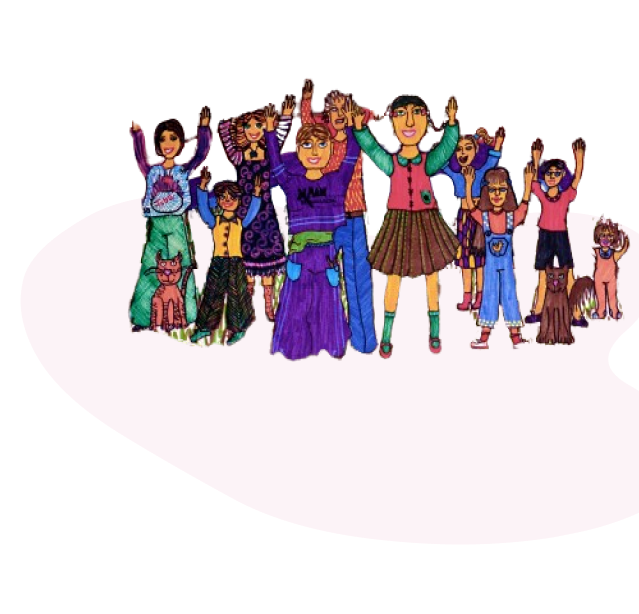
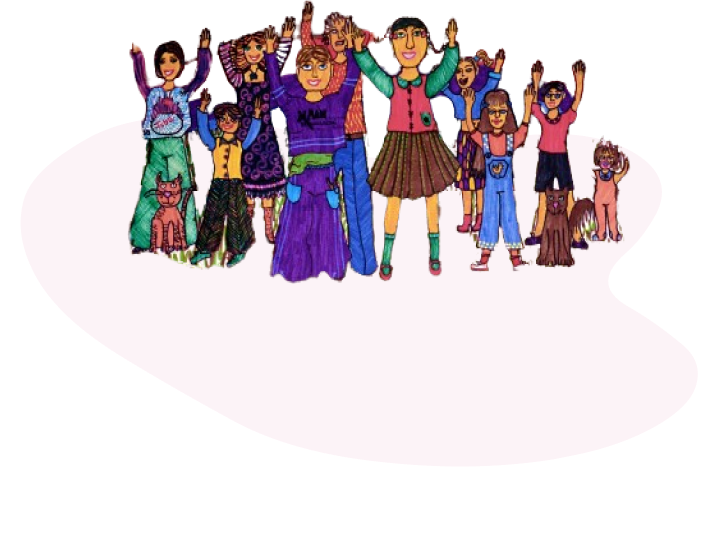
feat: sponsor redesign branch

diff --git a/components/sponsor/Benefits.tsx b/components/sponsor/Benefits.tsx
@@ -3,41 +3,40 @@ import BenefitsMobile from "../../public/sponsor/BenefitsMobile.png";
 import BenefitsIpadMini from "../../public/sponsor/BenefitsIpadMini.png";
 import BenefitsTablet from "../../public/sponsor/BenefitsTablet.png";
 import BenefitsLaptop from "../../public/sponsor/BenefitsLaptop.png";
-import BenefitsXL from "../../public/sponsor/BenefitsXL.png";
-import { H3m } from "../common/texts/H3m";
+import yellowBlob from "../../public/sponsor/yellowBlob.svg";
 import vector from "../../public/svgs/Vector.svg";
 import BenefitsRight from "../../public/sponsor/BenefitsRight.png";
 
 export const Benefits = () => {
-    return (
-        <>
-        <div className="relative mt-20">
-          <Image src={BenefitsMobile} alt="" width={767} height={446} className="absolute z-10 sm:hidden -top-50 w-full " />
-          <Image src={BenefitsIpadMini} alt="" width={1023} height={333} className="absolute -z-10 hidden sm:block lg:hidden w-full h-[400px] pb-10" />
-          <Image src={BenefitsTablet} alt="" width={1279} height={377} className="absolute z-10 hidden lg:block xl:hidden left-0 w-2/3 h-[400px]" />
-          <Image src={BenefitsLaptop} alt="" width={1536} height={432} className="absolute z-10 hidden xl:block 2xl:hidden left-0 w-2/3 h-[500px]" />
-          <Image src={BenefitsXL} alt="" width={1536} height={432} className="absolute z-10 hidden 2xl:block -top-50 left-0 w-2/3" />
+  return (
+    <>
+      <div className="relative mt-20">
+        <Image src={BenefitsMobile} alt="" width={767} height={446} className="absolute z-10 sm:hidden -top-50 w-full " />
+        <Image src={BenefitsIpadMini} alt="" width={1023} height={333} className="absolute -z-10 hidden sm:block lg:hidden w-full h-[400px] pb-10 -top-12" />
+        <Image src={BenefitsTablet} alt="" width={1279} height={377} className="absolute z-10 hidden lg:block xl:hidden left-0 w-2/3 h-[400px]" />
+        <Image src={BenefitsLaptop} alt="" width={1536} height={432} className="absolute z-10 hidden xl:block 2xl:hidden left-0 w-2/3 h-[500px]" />
 
+        <section className=" relative grid grid-cols-2 z-20 m-auto max-w-screen-2xl px-8 md:px-12 lg:px-16 xl:px-20">
+          <div className="col-span-2 xsm:col-span-2 lg:col-span-1 xsm:mt-8 md:mt-8 2xl:mt-20">
+            <Image src={yellowBlob} alt="" width={1536} height={432} className="absolute hidden 2xl:block -top-4 -left-20 -z-10 w-2/3 max-w-[1061px]" />
 
-          <section className=" relative grid grid-cols-2 z-20 m-auto max-w-screen-2xl px-8 md:px-12 lg:px-16 xl:px-20">
-            <div className="col-span-2 xsm:col-span-2 lg:col-span-1 xsm:mt-8 md:mt-8 2xl:mt-20">
-              <h3 className="relative flex-col z-20 font-semibold mb-4 text-2xl xsm:text-2xl lg:text-3xl xl:text-4xl">
-                Sponsorship benefits
-              </h3>
-              <div className="relative w-auto mb-8 z-20">
-                <h2 className="z-20 font-light text-lg lg:w-4/5 mxl:w-4/5">
-                Employees and stakeholders participate while the company makes it mark on The National Mall across the U.S. Capitol. Please browse this 10-page pdf (2-minutes) 
-                </h2>
-              </div>
-              <a href="#" className="text-blue-600 hover:text-blue-700 font-bold underline hover:underline hover:bg-gray-300 p-2 rounded inline-block">Download PDF</a>
-              <Image src={vector} alt="" width={10} height={10} className=" z-20  inline-block" />
+            <h3 className="relative flex-col z-20 font-semibold mb-4 text-2xl xsm:text-2xl lg:text-3xl xl:text-4xl">
+              Sponsorship benefits
+            </h3>
+            <div className="relative w-auto mb-8 z-20">
+              <h2 className="z-20 font-light text-lg lg:w-4/5 mxl:w-4/5">
+              Employees and stakeholders participate while the company makes it mark on The National Mall across the U.S. Capitol. Please browse this 10-page pdf (2-minutes) 
+              </h2>
             </div>
-            <Image src={BenefitsRight} className="xsm:col-span-2 lg:col-span-1 z-20 w-full xl:w-full mt-10" alt=""></Image>
-          </section>
-        </div>
-       
+            <a href="#" className="text-blue-600 hover:text-blue-700 font-bold underline hover:underline hover:bg-gray-300 p-2 rounded inline-block z-10">Download PDF</a>
+            <Image src={vector} alt="" width={10} height={10} className=" z-20  inline-block" />
+          </div>
+          <Image src={BenefitsRight} className="xsm:col-span-2 lg:col-span-1 z-20 w-full xl:w-full mt-10" alt=""></Image>
+        </section>
+      </div>
       
-      
-      </>
-    );
+    
+    
+    </>
+  );
 };

diff --git a/components/sponsor/PastSponsor.tsx b/components/sponsor/PastSponsor.tsx
@@ -1,30 +1,29 @@
 import Image from "next/image";
-import PastMobile from "../../public/sponsor/PastMobile.png"
-import PastXL from "../../public/sponsor/PastXL.png"
-import PastLeft from "../../public/sponsor/PastLeft.png"
+import PastXL from "../../public/sponsor/PastXL.png";
+import PastLeft from "../../public/sponsor/PastLeft.png";
 import vector from "../../public/svgs/Vector.svg";
 
 export const PastSponsor = () => {
   return (
     <>
-        <div className="relative mt-40 grid grid-cols-2 z-20 m-auto  " >
-            <div className="xsm:col-span-2 lg:col-span-1 xsm:px-8 md:px-12 lg:px-16 xl:px-20 max-w-screen-2xl">
-                <Image src={PastLeft} alt="" width={767} height={446} className="relative z-20 " />
-            </div>
-            <div className="relative xsm:col-span-2 lg:col-span-1 xsm:px-8 mt-20 md:px-12 lg:px-16 mt-0 xl:px-20 max-w-screen-2xl">
-                <div className="relative z-20 m-auto">
-                    <h2 className="font-medium text-3xl ">Past Sponsors and supporters</h2>
-                    <h3 className="font-light text-lg leading-loose mt-5">Some of the world’s leading companies have worked with ICAF. 
-Please browse this 16-page pdf (3-minutes). </h3> 
-                    <a href="#" className="text-blue-600 hover:text-blue-700 font-bold underline hover:underline hover:bg-gray-300 p-2 rounded inline-block">Download PDF</a>
-                    <Image src={vector} alt="" width={10} height={10} className=" z-20  inline-block" />   
-                </div>
-                <div>
-                    <Image src={PastMobile} alt="" width={767} height={446} className="absolute z-0 hidden xsm:block w-full right-0 lg:hidden" />
-                    <Image src={PastXL} alt="" width={1536} height={432} className="absolute z-0 hidden 2xl:block top-20 right-0 w-full " />
-                </div>
-            </div> 
+      <div className="relative mt-20 lg:mt-40 mb-36 grid grid-cols-2 z-20 m-auto  xsm:px-8 md:px-12 lg:px-16 xl:px-20 max-w-screen-2xl " >
+        <div className="relative xsm:col-span-2 lg:col-span-1 order-2 lg:order-1 rounded-lg overflow-hidden lg:h-[500px] flex justify-center items-center mt-20 lg:mt-0">
+          <Image src={PastLeft} alt="" className="h-full w-auto min-w-full object-cover rounded-lg" />
         </div>
+        <div className="relative xsm:col-span-2 lg:col-span-1 xsm:px-8 lg:mt-20 md:px-12 lg:px-16 mt-0 xl:px-20 max-w-screen-2xl order-1 lg:order-2">
+          <div className="relative z-20 m-auto ">
+            <h2 className="font-medium text-3xl ">Past Sponsors and supporters</h2>
+            <h3 className="font-light text-lg leading-loose mt-5">Some of the world’s leading companies have worked with ICAF. 
+Please browse this 16-page pdf (3-minutes). </h3> 
+            <a href="#" className="text-blue-600 hover:text-blue-700 font-bold underline hover:underline hover:bg-gray-300 p-2 rounded inline-block">Download PDF</a>
+            <Image src={vector} alt="" width={10} height={10} className=" z-20  inline-block" />   
+          </div>
+          <div>
+            {/* <Image src={PastMobile} alt="" width={767} height={446} className="absolute z-0 hidden xsm:block w-full right-0 lg:hidden" /> */}
+            <Image src={PastXL} alt="" width={718} height={535} className="absolute z-0 hidden lg:block top-20 md:top-20 lg:top-52 xl:bottom-12 xl:top-56 right-0 w-4/6 lg:w-full lg:-right-28 max-w-[718px]" />
+          </div>
+        </div> 
+      </div>
     </>
 
   );

diff --git a/components/sponsor/SponsorBegin.tsx b/components/sponsor/SponsorBegin.tsx
@@ -1,17 +1,11 @@
 import Image from "next/image";
-import hashtag from "../../public/home/hashtag.svg";
-import yellowBGmobile from "../../public/svgs/sponsor-svg/yellowBG-mobile.svg";
-import yellowBGipad from "../../public/svgs/sponsor-svg/yellowBG-ipad.svg";
-import yellowBGtablet from "../../public/svgs/sponsor-svg/yellowBG-tablet.svg";
-import yellowBGsmall from "../../public/svgs/sponsor-svg/yellowBG-small.svg";
-import yellowBGlarge from "../../public/svgs/sponsor-svg/yellowBG-large.svg";
 
 export const SponsorBegin = () => {
   return (
     <>
       <section className="relative grid grid-cols-2 z-20 mt-10 m-auto max-w-screen-2xl px-8 md:px-12 lg:px-16 xl:px-20">
-        <div className="col-span-2 lg:col-span-1 md:mt-8">
-          <h1 className="flex-col z-20 font-semibold mb-4 text-3xl xsm:text-4xl lg:text-5xl xl:text-6xl">
+        <div className="col-span-2 lg:col-span-1 md:mt-8 max-w-[500px] lg:max-w-[unset] col-span-2 m-auto">
+          <h1 className="flex-col z-20 font-semibold mb-4 text-3xl xsm:text-4xl lg:text-5xl xl:text-6xl text-center lg:text-left ">
             Sponsor
           </h1>
           <div className="w-auto mb-8 z-20">
@@ -20,8 +14,8 @@ export const SponsorBegin = () => {
             </h2>
           </div>
         </div>
-        <div className="col-span-2 z-20 sm:col-span-1 flex justify-center item-center">            
-          <Image src="/sponsor/heart_earth_combination.svg" width = {380} height = {323} className="sm:ml-10 lg:ml-0 w-2/3" alt=""/>
+        <div className="col-span-2 z-20 lg:col-span-1 flex justify-center item-center">            
+          <Image src="/sponsor/heart_earth_combination.svg" width = {380} height = {323} className="lg:ml-0 w-2/3" alt=""/>
         </div>
       </section>
     </>

diff --git a/components/sponsor/ContactUs.tsx b/components/sponsor/ContactUs.tsx
@@ -1,16 +1,12 @@
-import Image from "next/image";
 // import icafLogo from "../../public/svgs/Icaf-logo.svg";
 // import orangeBlob from "../../public/svgs/sponsor-svg/orangeblob.svg";
 // import greenBlob from "../../public/svgs/sponsor-svg/greenblob.svg";
-import blueBlob from "../../public/sponsor/blue_blob.png";
-import blueBlobMobile from "../../public/sponsor/blueBlobMobile.png";
 
 export const ContactUs = () => {
   return (
     <>
-      <div className="relative mb-[500px] z-30 bg-light-blue" >
-        <Image src={blueBlobMobile} alt="" width={767} height={446} className="absolute z-0 xsm:block w-full h-[1000px]" />
-        <div className="absolute left-1/2 transform -translate-x-1/2 translate-y-1/2 grid grid-cols-1 gap-y-6 md:mt-10 lg:mt-20 m-auto max-w-screen-2xl sm:px-8 md:px-12 lg:px-16 xl:px-20">
+      <div className="relative py-12 z-20 bg-light-blue px-8 md:px-12 lg:px-16 xl:px-20" >
+        <div className="grid grid-cols-1 gap-y-6 m-auto max-w-screen-2xl sm:px-8 md:px-12 lg:px-16 xl:px-20">
           <h2 className="text-center font-medium text-3xl">Contact Us</h2>
           <h3 className="text-center font-light text-lg leading-loose">We will gladly answer any questions you have.</h3>    
           <a href="https://icaf.org/about/contact-us" className="mx-auto inline-flex w-fit h-fit bg-new-blue rounded text-center py-4 px-6 text-sm cursor-pointer tracking-wide text-neutral-white">Contact us here</a>

diff --git a/src/app/sponsor/page.tsx b/src/app/sponsor/page.tsx
@@ -1,15 +1,8 @@
 import { Metadata } from "next";
 import { sharedOpenGraph } from "../shared-metadata";
 import { SponsorBegin } from "../../../components/sponsor/SponsorBegin";
-import { Advantage } from "../../../components/sponsor/Advantage";
-import { Carousel } from "../../../components/sponsor/Carousel";
-import { Banner } from "../../../components/Banner";
 import { ContactUs } from "../../../components/sponsor/ContactUs";
-import { FiveDrop } from "../../../components/sponsor/FiveDrop";
 import {Benefits} from "../../../components/sponsor/Benefits";
-import orangeBlob from "../../../public/svgs/sponsor-svg/orangeblob.svg";
-import greenBlob from "../../../public/svgs/sponsor-svg/greenblob.svg";
-import Image from "next/image";
 import { VisionCards } from "../../../components/sponsor/VisionCards";
 import { PastSponsor } from "../../../components/sponsor/PastSponsor";
 
@@ -23,7 +16,7 @@ export const metadata: Metadata = {
 
 export default function sponsorPage() {
   return (
-    <div className="overflow-hidden z-0 mx-auto">
+    <div className=" z-0 ">
 
       <SponsorBegin />
       <VisionCards />

diff --git a/components/sponsor/VisionCards.tsx b/components/sponsor/VisionCards.tsx
@@ -1,7 +1,5 @@
 import {VisionCard} from "./VisionCard";
 import Image from "next/image";
-import {H2m} from "../common/texts/H2m";
-import {AnimatedScribble} from "../common/decorations/AnimatedScribble";
 
 
 export const VisionCards = () => {
@@ -54,11 +52,6 @@ export const VisionCards = () => {
           }
         />
       </div>
-
-      <Image
-        src="/svgs/blobs/populated-green-arrow-blob.svg" alt="" width={645} height={903}
-        className="absolute -z-10 -top-20 -left-10"
-      />
 
     </section>
   );
